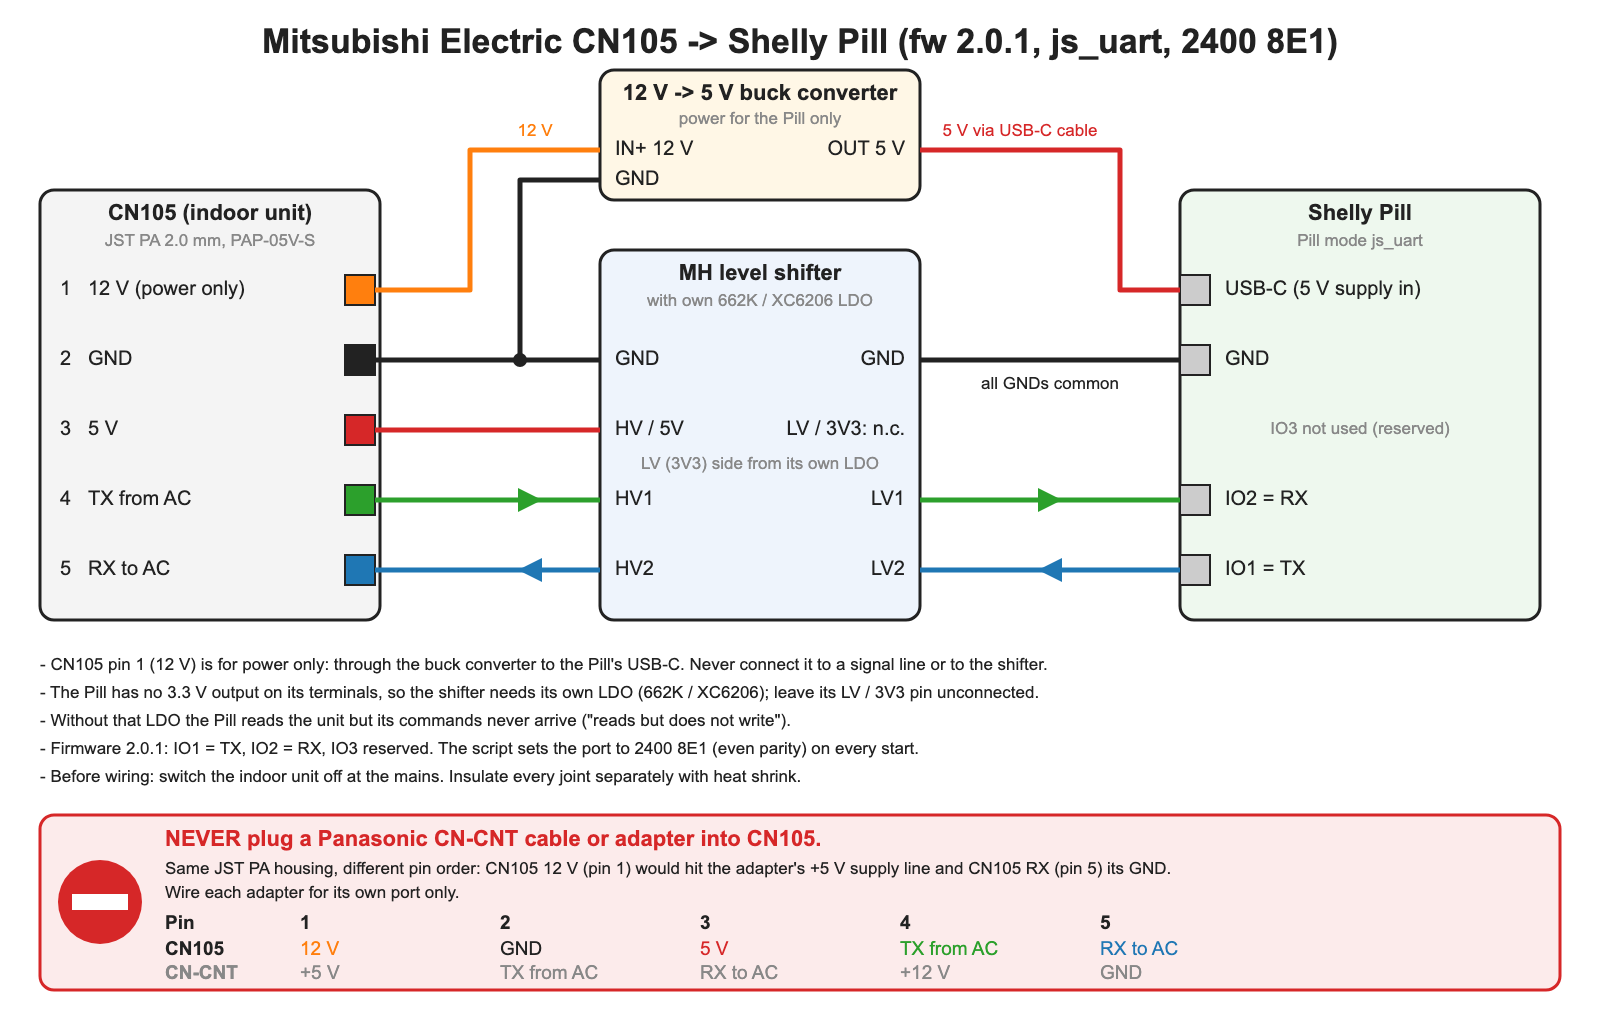
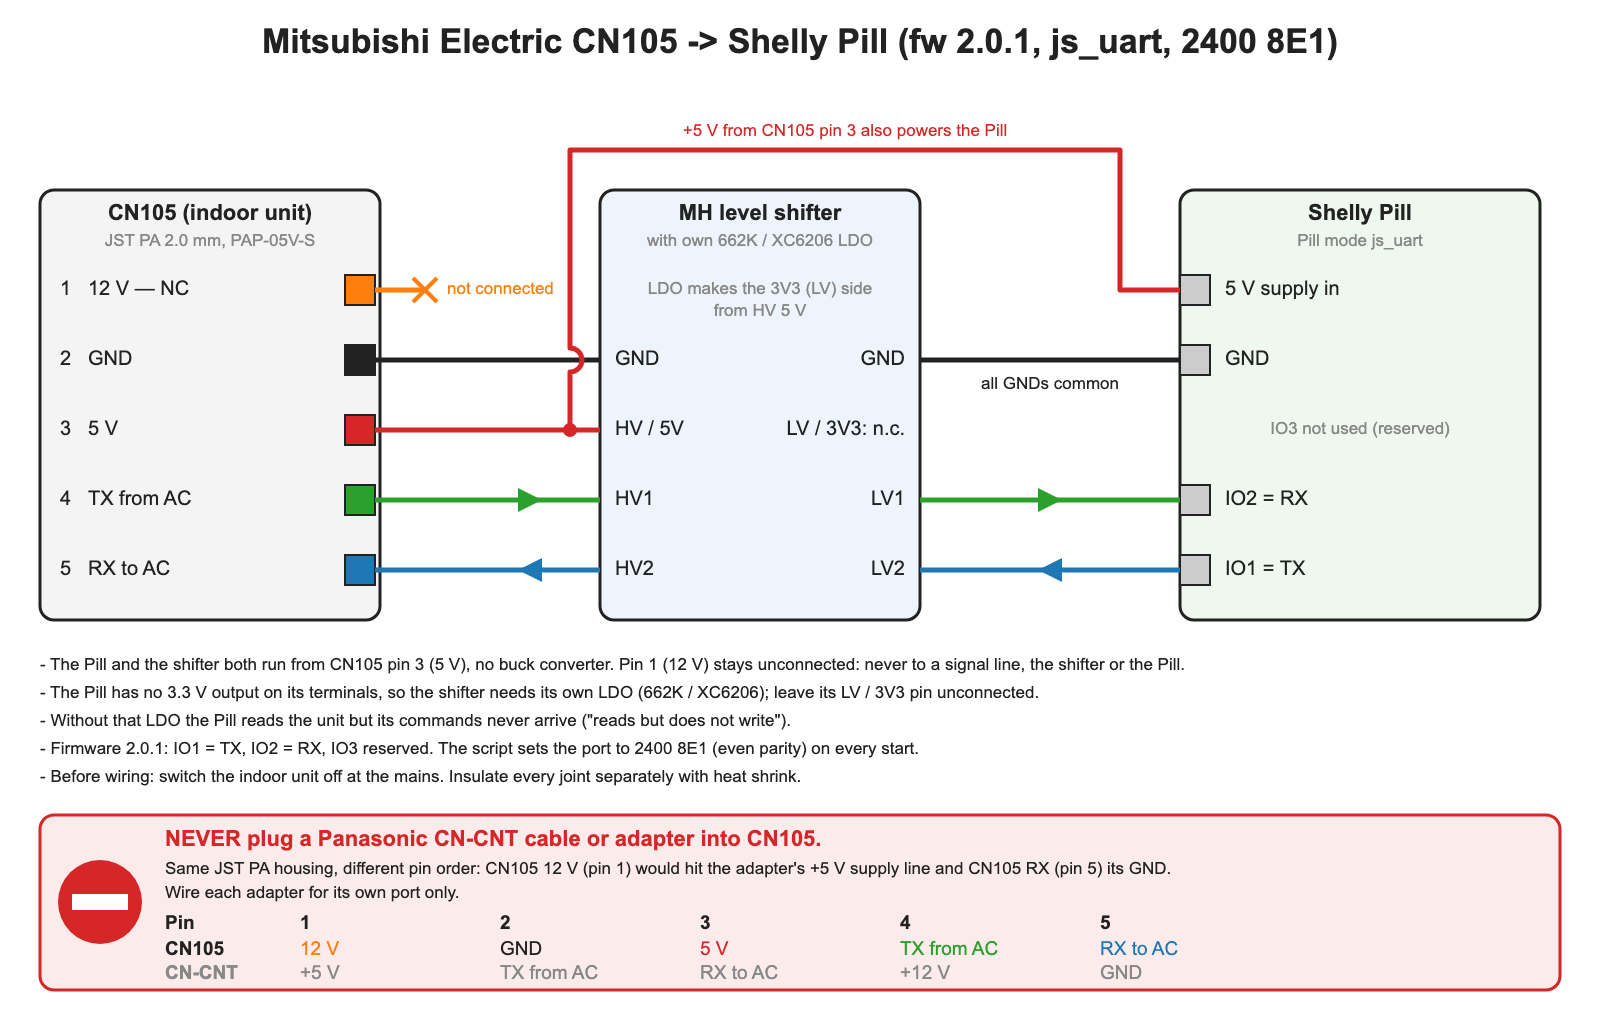
docs(cn105): power Pill from pin 3, drop buck converter
CN105 pin 3 (5 V) now powers both the level shifter's high side and the
Pill; pin 1 (12 V) is left unconnected. README section 1 pin table and
wiring list, wiring.svg and the re-rendered wiring.png updated to match
the Panasonic CN-CNT adapter. No script changes.

diff --git a/mitsubishi/cn105/README.md b/mitsubishi/cn105/README.md
@@ -39,9 +39,9 @@ CN105 is a 5-pin JST-PA connector on the indoor unit's control board:
 
 | CN105 pin | Signal | Note |
 |---|---|---|
-| 1 | 12 V | Power only — use a 12 V → 5 V buck converter to feed the Pill's USB-C. **Never** connect to a signal line. |
+| 1 | 12 V | Not used — leave unconnected. **Never** connect to a signal line or to the Pill. |
 | 2 | GND | Common ground |
-| 3 | 5 V | Reference for the level shifter's high side |
+| 3 | 5 V | Powers the Pill and the level shifter's high side. |
 | 4 | TX (unit → Pill) | 5 V logic |
 | 5 | RX (Pill → unit) | 5 V logic |
 
@@ -50,6 +50,7 @@ The Pill uses **3.3 V logic**, so a bidirectional level shifter is required
 
 ```
 CN105 pin3 5V  -> shifter HV        (leave the shifter's LV/3V3 pin unconnected if it has its own LDO)
+CN105 pin3 5V  -> Pill 5 V supply   (same wire feeds shifter HV)
 CN105 pin2 GND -> shifter GND (both sides) -> Pill GND
 CN105 pin4 TX  -> shifter HV1 ... LV1 -> Pill IO2  (Pill RX)
 CN105 pin5 RX  <- shifter HV2 ... LV2 <- Pill IO1  (Pill TX)
